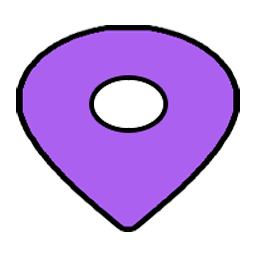
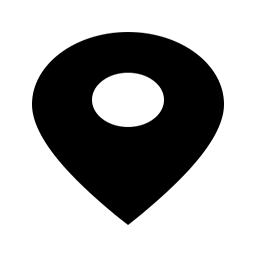
forth commit

diff --git a/public/styles.css b/public/styles.css
@@ -5,9 +5,20 @@
 }
 
 :root {
-  --title-bg: #3a2a4a;
-  --compose-bg: #3a2a4a;
-  --messages-bg: #302040;
+  --compose-bg: #282e4b;
+  --messages-bg: #202640;
+  --chat-welcome: #5381c7;
+  --location: #6794d6;
+  --chat-side: #eee;
+  --chat-title: #b6d3ff;
+  --chat-title-bg: #282e4b;
+  --list-title: #ccc;
+  --chat-side-bg: #333744;
+  --button-bg: rgb(64, 64, 152);
+  --button-bg-hover: rgb(88, 88, 176);
+  --button-bg-disabled: rgba(0, 0, 0, .3);
+  --button-leave: #264471;
+  --button-share-hover: #202640;
 }
 
 html {
@@ -41,22 +52,22 @@ label {
 
 button {
   cursor: pointer;
-  padding: 12px;
-  background: rgb(64, 64, 152);
+  padding: 1vmin 2vmin;
+  background: var(--button-bg);
   border: none;
   color: white;
-  font-size: 16px;
+  font-size: 3vmin;
   transition: all .3s ease;
 }
 
 button:hover {
-  background: rgb(76, 76, 164);
+  background: var(--button-bg-hover);
 }
 
 button:disabled {
   cursor: default;
-  color: #99e;
-  background: rgb(76, 76, 128);
+  color: #bbb;
+  background: var(--button-bg-disabled);
 }
 
 ul {
@@ -118,9 +129,9 @@ ul {
   justify-content: space-between;
   height: 100vh;
   max-height: 100vh;
-  color: white;
-  background: #333744;
-  max-width: 35vmin;
+  color: var(--chat-side);
+  background: var(--chat-side-bg);
+  max-width: 30vmin;
   user-select: none;
 }
 
@@ -131,14 +142,9 @@ ul {
   text-align: center;
   font-size: 3.5vmin;
   font-weight: 400;
-  background: var(--title-bg);
+  color: var(--chat-title);
+  background: var(--chat-title-bg);
   padding: 3vmin;
-}
-
-.list-box {
-  display: flex;
-  flex-grow: 1;
-  flex-direction: column;
 }
 
 .list-title {
@@ -146,6 +152,7 @@ ul {
   font-size: 3vmin;
   font-weight: 500;
   padding: 2vmin 0;
+  color: var(--list-title);
   background-color: rgba(0, 0, 0, .1);
 }
 
@@ -168,7 +175,7 @@ ul {
   display: flex;
   justify-content: center;
   align-items: center;
-  padding: 2.5vmin;
+  /* padding: 2.5vmin; */
   height: 15vmin;
   justify-content: center;
   background: rgba(0, 0, 0, .1);
@@ -189,15 +196,16 @@ ul {
   color: #eee;
   font-size: 3vmin;
   text-align: center;
-  background: #3f2c4a;
-  border: solid 2px #3f2c4a;
+  background: var(--button-leave);
+  border: solid 2px var(--button-leave);
   box-shadow: none;
-  transition: all .3s ease;
+  transition: all .5s ease;
 }
 .chat-leave:hover {
   color: #fff;
   font-size: 2.1vmin;
   background: rgba(100, 0, 0, .5);
+  border-color: rgba(100, 0, 0, .5);
 }
 
 /* Chat styles */
@@ -246,13 +254,14 @@ ul {
   flex-flow: row nowrap;
   justify-content: space-between;
   align-items: center;
-  padding: 2.5vmin 0 2.5vmin 2.5vmin;
-  height: 12vmin;
+  padding: 0 1.5vmin 0 2.5vmin;
+  height: 10vmin;
   background: var(--compose-bg);
 }
 
 .compose form {
   display: flex;
+  max-height: 5.5vmin;
   width: 100%;
 }
 
@@ -260,21 +269,24 @@ ul {
   font-size: 3.5vmin;
   width: 100%;
   border-radius: 8px;
-  background: rgba(255, 255, 255, .8);
+  background: rgba(255, 255, 255, .7);
 }
 
 #message::placeholder {
-  font-size: 3vmin;
+  font-size: 2.5vmin;
+  font-weight: 500;
 }
 
-.compose button {
+.share-location {
   margin: 1vmin;
   background: inherit;
   padding: .5vmin;
   border-radius: 12px;
+  background: inherit;
 }
-.compose button:hover {
-  background: #443355;
+
+.share-location:hover {
+  background: var(--button-share-hover);
 }
 
 .message-meta {
@@ -287,13 +299,13 @@ ul {
 }
 
 .message-sender {
-  color: #b094de;
+  color: #4c88b9;
   font-size: .9rem;
   margin-left: 1.2vmin;
 }
 
 .message-location {
-  color: darkviolet;
+  color: var(--location);
   font-size: .9rem;
   margin-left: 8px;
 }
@@ -308,7 +320,7 @@ ul {
 .message-welcome {
   font-size: .8rem;
   margin-left: 6px;
-  color: slateblue;
+  color: var(--chat-welcome);
 }
 
 .message-error {
@@ -347,13 +359,13 @@ ul {
 .message-ballon {
   border-radius: 8px;
   color: #eee;
-  background-color: rgba(0, 128, 255, .3);
+  background-color: rgba(0, 128, 200, .3);
   padding: 6px 8px;
 }
 
 .message-ballon-received {
   border-radius: 8px;
   color: #eee;
-  background-color: rgba(0, 196, 255, .3);
+  background-color: rgba(0, 196, 200, .3);
   padding: 6px 8px;
 }

diff --git a/public/chat.html b/public/chat.html
@@ -24,9 +24,9 @@
         <div id="messages" class="chat-messages"></div>
         <div class="compose">
           <form id="message-form">
-            <input id="message" placeholder="Message" name="message" type="text" required autocomplete="off">
+            <input id="message" placeholder="Type a message" name="message" type="text" required autocomplete="off">
           </form>
-          <button id="share-location" class="share" title="Share location"><img src="img/location.png" class="icon-location"></button>
+          <button id="share-location" class="share-location" title="Share location"><img src="img/location.png" class="icon-location"></button>
         </div>
       </div>
     </div>

diff --git a/public/js/chat.js b/public/js/chat.js
@@ -215,6 +215,14 @@ $shareLocation.addEventListener('click', (e) => {
   });
 })
 
+$shareLocation.addEventListener('mouseenter', (e) => {
+  const img = $shareLocation.querySelector('img')
+  img.setAttribute('src', 'img/location_on.png')
+})
+$shareLocation.addEventListener('mouseleave', (e) => {
+  const img = $shareLocation.querySelector('img')
+  img.setAttribute('src', 'img/location.png')
+})
 
 socket.emit('join', { username, room, lang: getLang() }, (error) => {
   if (error) {
